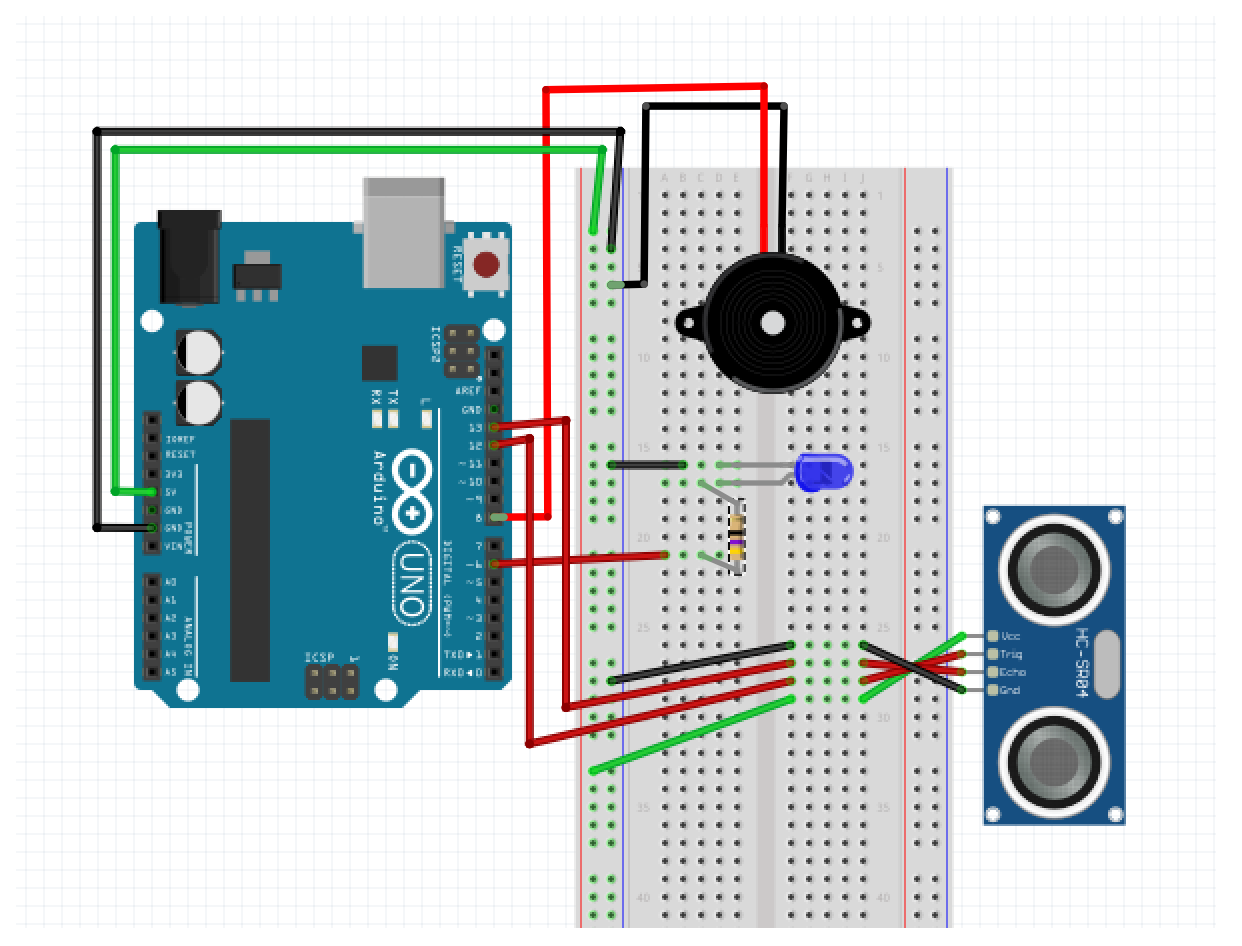
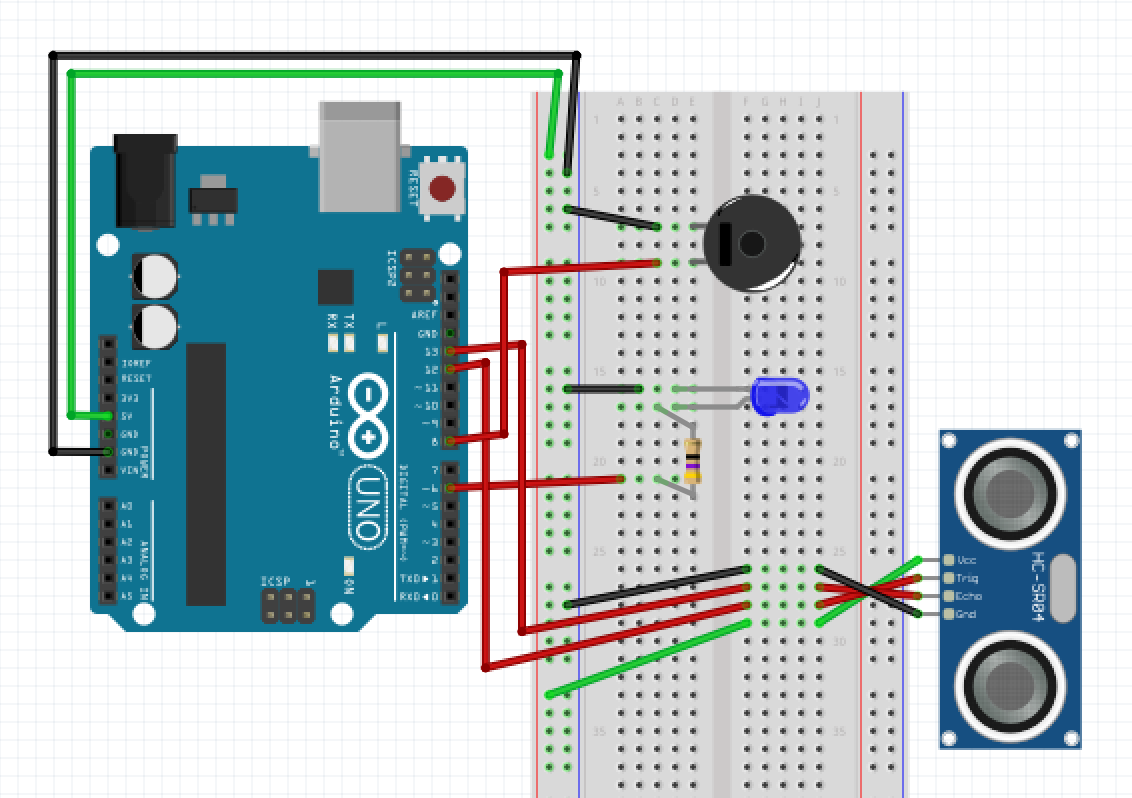
updated Understanding Circuits + the Breadboard

diff --git a/slides-en.html b/slides-en.html
@@ -393,7 +393,7 @@
 <!--Slide 25-->
     <section class="slide centered" data-markdown>
       <script type="text/template">
-        #Let's Practice!
+        # Let's Practice!
         ## Follow this Circuit Diagram
 
         ![Circuit Challenge #1](framework/img/workshop/tlc-circuit-challenge-1.png)
@@ -401,6 +401,26 @@
     </section>
 
 <!--Slide 26-->
+    <section class="slide centered" data-markdown>
+      <script type="text/template">
+        # Let's Practice!
+        ## Can we make it light up?
+
+        ![Man light up candles with magic](framework/img/workshop/tlc-let-there-be-light.gif)
+      </script>
+    </section>
+
+<!--Slide 27-->
+    <section class="slide centered" data-markdown>
+      <script type="text/template">
+        # Let's Practice!
+        ## Give it power, 5V of it!
+
+        ![Circuit Challenge #1 Answer](framework/img/workshop/tlc-circuit-challenge-1-ans.png)
+      </script>
+    </section>
+
+<!--Slide 28-->
     <section class="slide" data-markdown>
       <script type="text/template">
         # Input
@@ -417,7 +437,7 @@
       </script>
     </section>
 
-<!--Slide 27-->
+<!--Slide 29-->
     <section class="slide two-col-list" data-markdown>
       <script type="text/template">
         # Input
@@ -429,13 +449,32 @@
       </script>
     </section>
 
-<!--Slide 28-->
+<!--Slide 30-->
     <section class="slide centered" data-markdown>
       <script type="text/template">
-        #Let's Practice!
+        # Let's Practice!
         ## Follow this Circuit Diagram
 
         ![Circuit Challenge #2](framework/img/workshop/tlc-circuit-challenge-2.png)
+      </script>
+    </section>
+
+<!--Slide 31-->
+    <section class="slide" data-markdown>
+      <script type="text/template">
+        # Let's Practice!
+        ## Does it light up?
+
+        * Have you check
+          * power source?
+          * ground power connection?
+          * i/o port connection?
+          * wires lined up?
+          * +/- in the right places?
+          * hardware Gremlins? ![Hardware Gremlin Emoji](framework/img/workshop/tlc-hardware-gremlin.png)<!-- .element: width="5%" -->![Hardware Gremlin Emoji](framework/img/workshop/tlc-hardware-gremlin.png)<!-- .element: width="5%" -->![Hardware Gremlin Emoji](framework/img/workshop/tlc-hardware-gremlin.png)<!-- .element: width="5%" -->![Hardware Gremlin Emoji](framework/img/workshop/tlc-hardware-gremlin.png)<!-- .element: width="5%" -->
+            * working LED?
+            * working resistor?
+            * working button?
       </script>
     </section>
 

diff --git a/notes-en.html b/notes-en.html
@@ -124,6 +124,8 @@
 
         Ask the learners what the outcome of this practice would be and proceed with the challenge.
 
+        Paper print out guidelines, http://blog.fritzing.org/2009/12/02/paper-templates-for-your-breadboard-prototypes/
+
         **(Slide 26):**
 
         The difference between a maintained and momentary button, "maintained" will keep its state and "momentary" would would not, which would require a mechanism to hold it down.
@@ -158,6 +160,10 @@
         * Get 2 out of 4 members of the team to showcase at their station and 2 of them to go around and checkout others
         * Switch in 15-20 min (time to tour 4 other groups)
         * Regroup on findings and ask if the learners still have questions
+
+        **(Slide 68):**
+
+        Video on how to wire the buzzer, https://www.youtube.com/watch?v=K8AnlUT0ng0
 
         **(Slide 69):**
 
